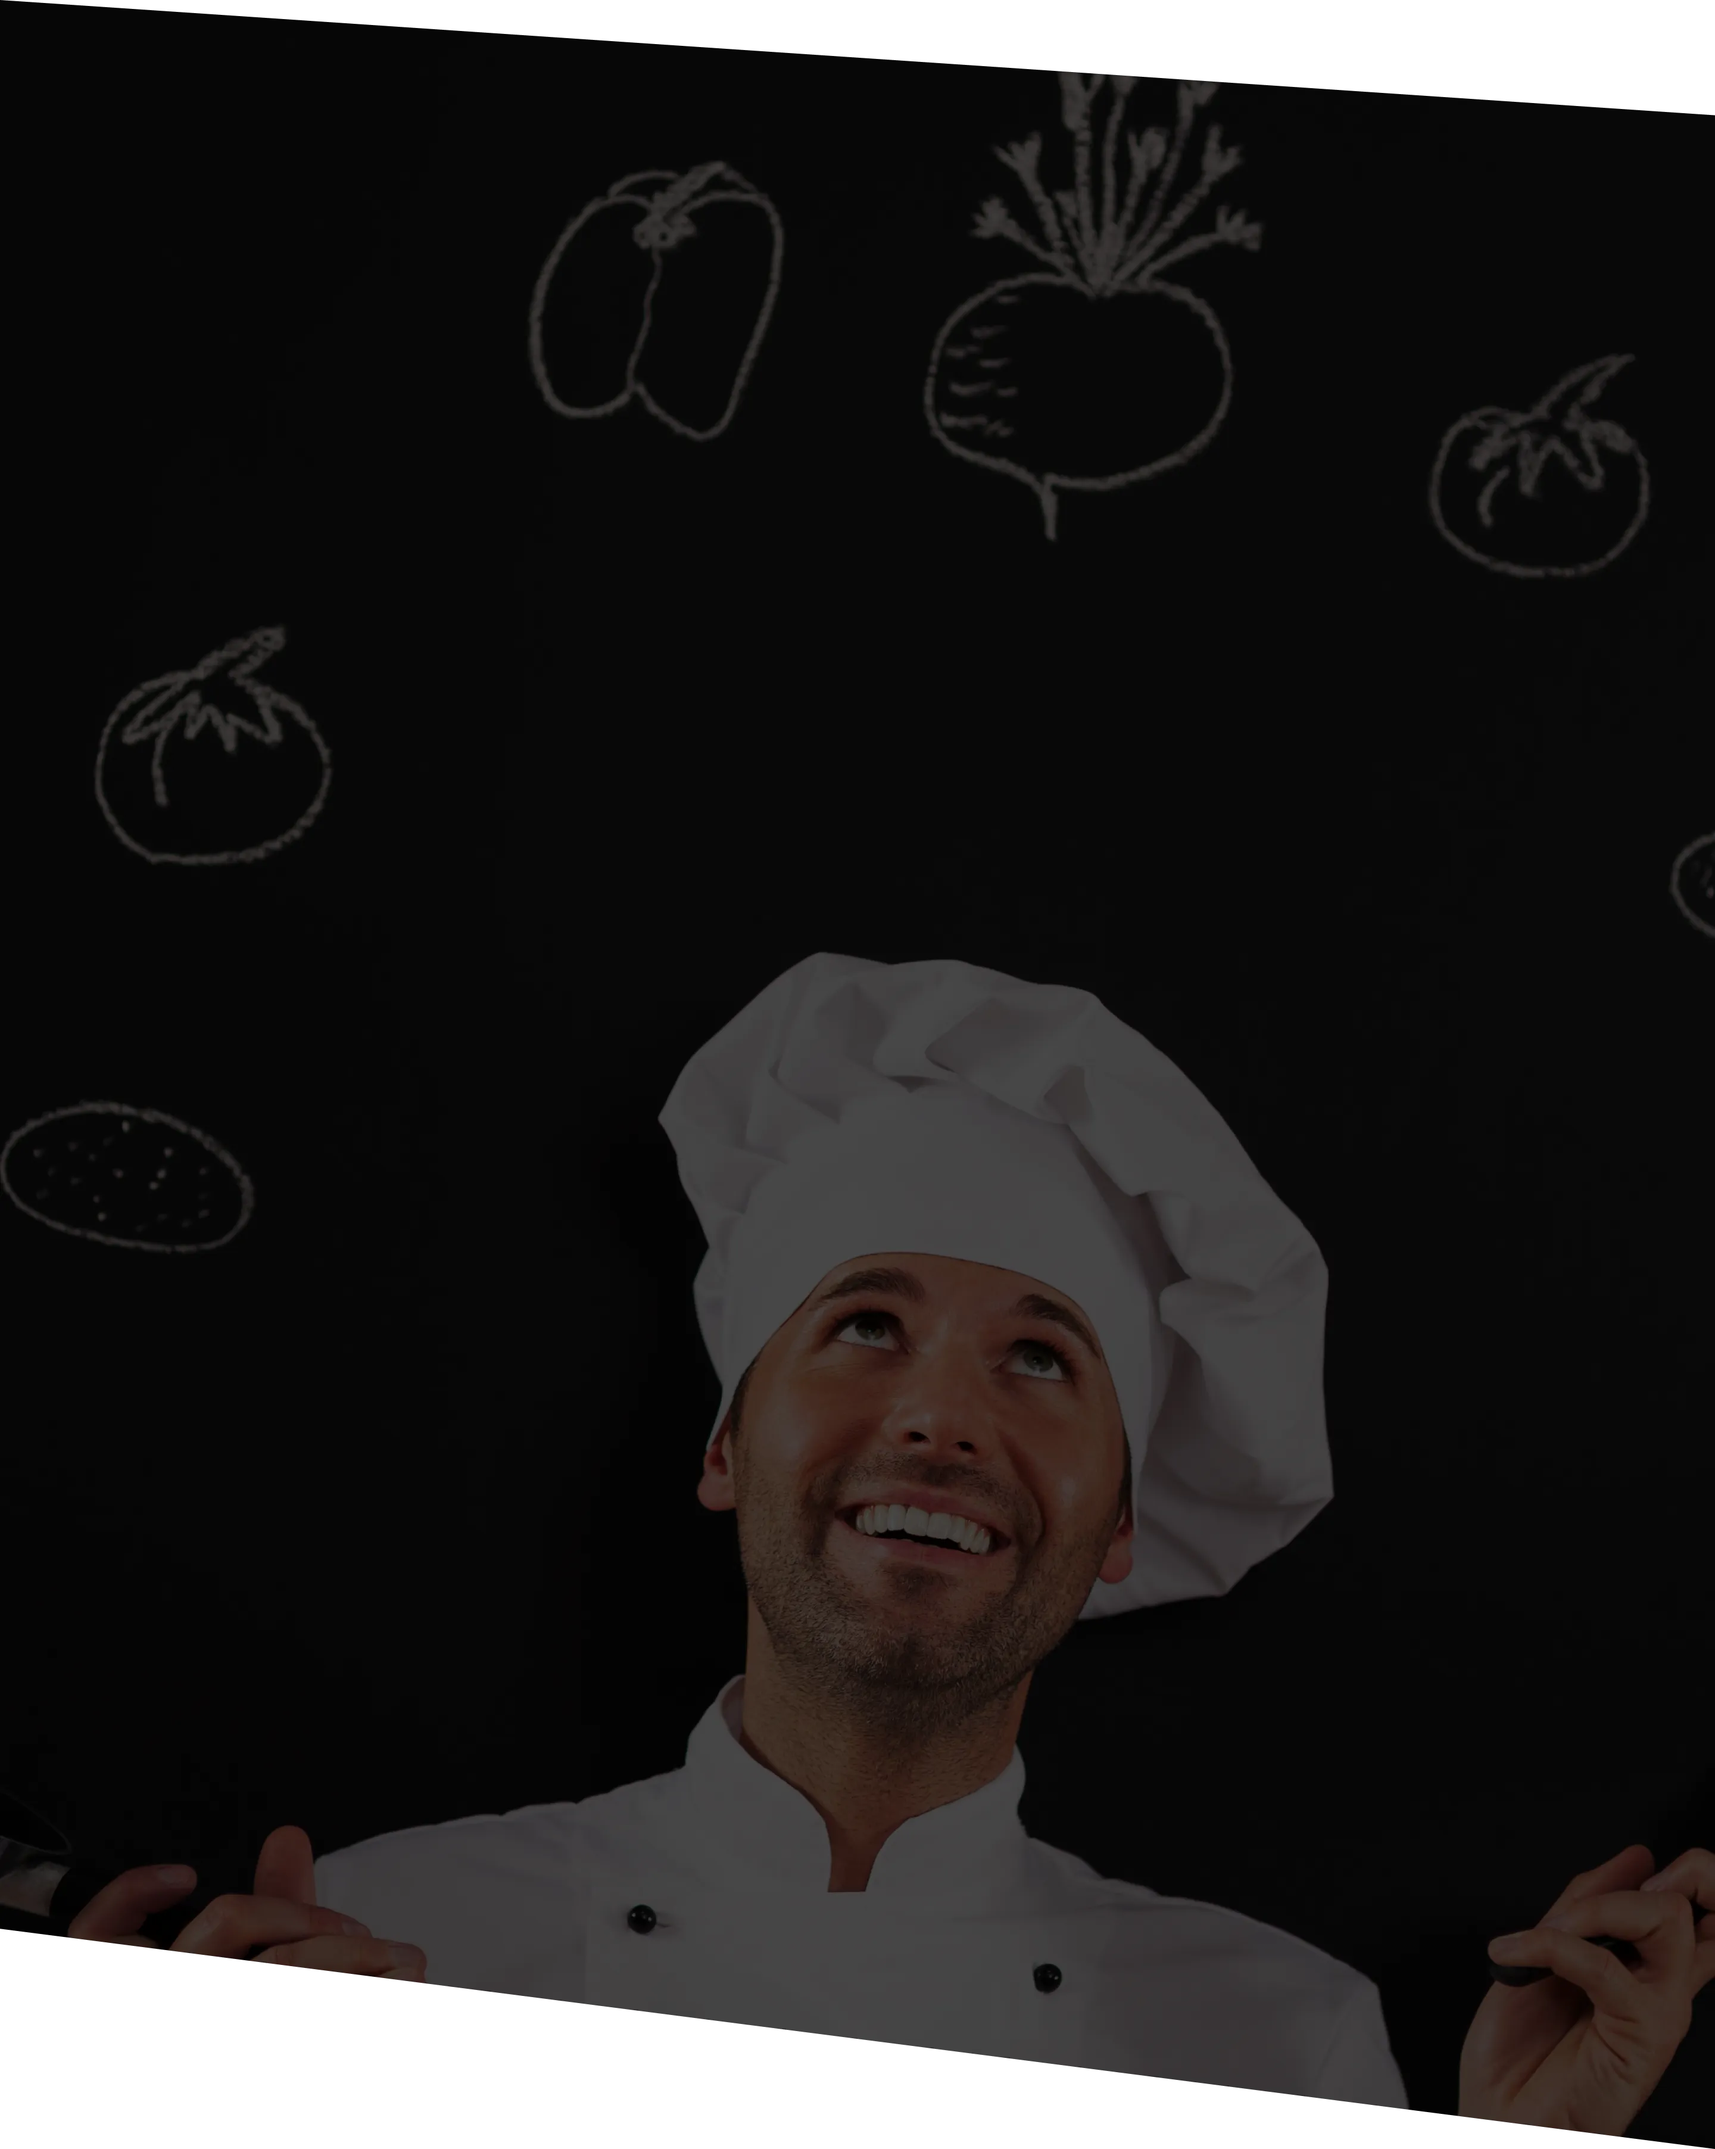
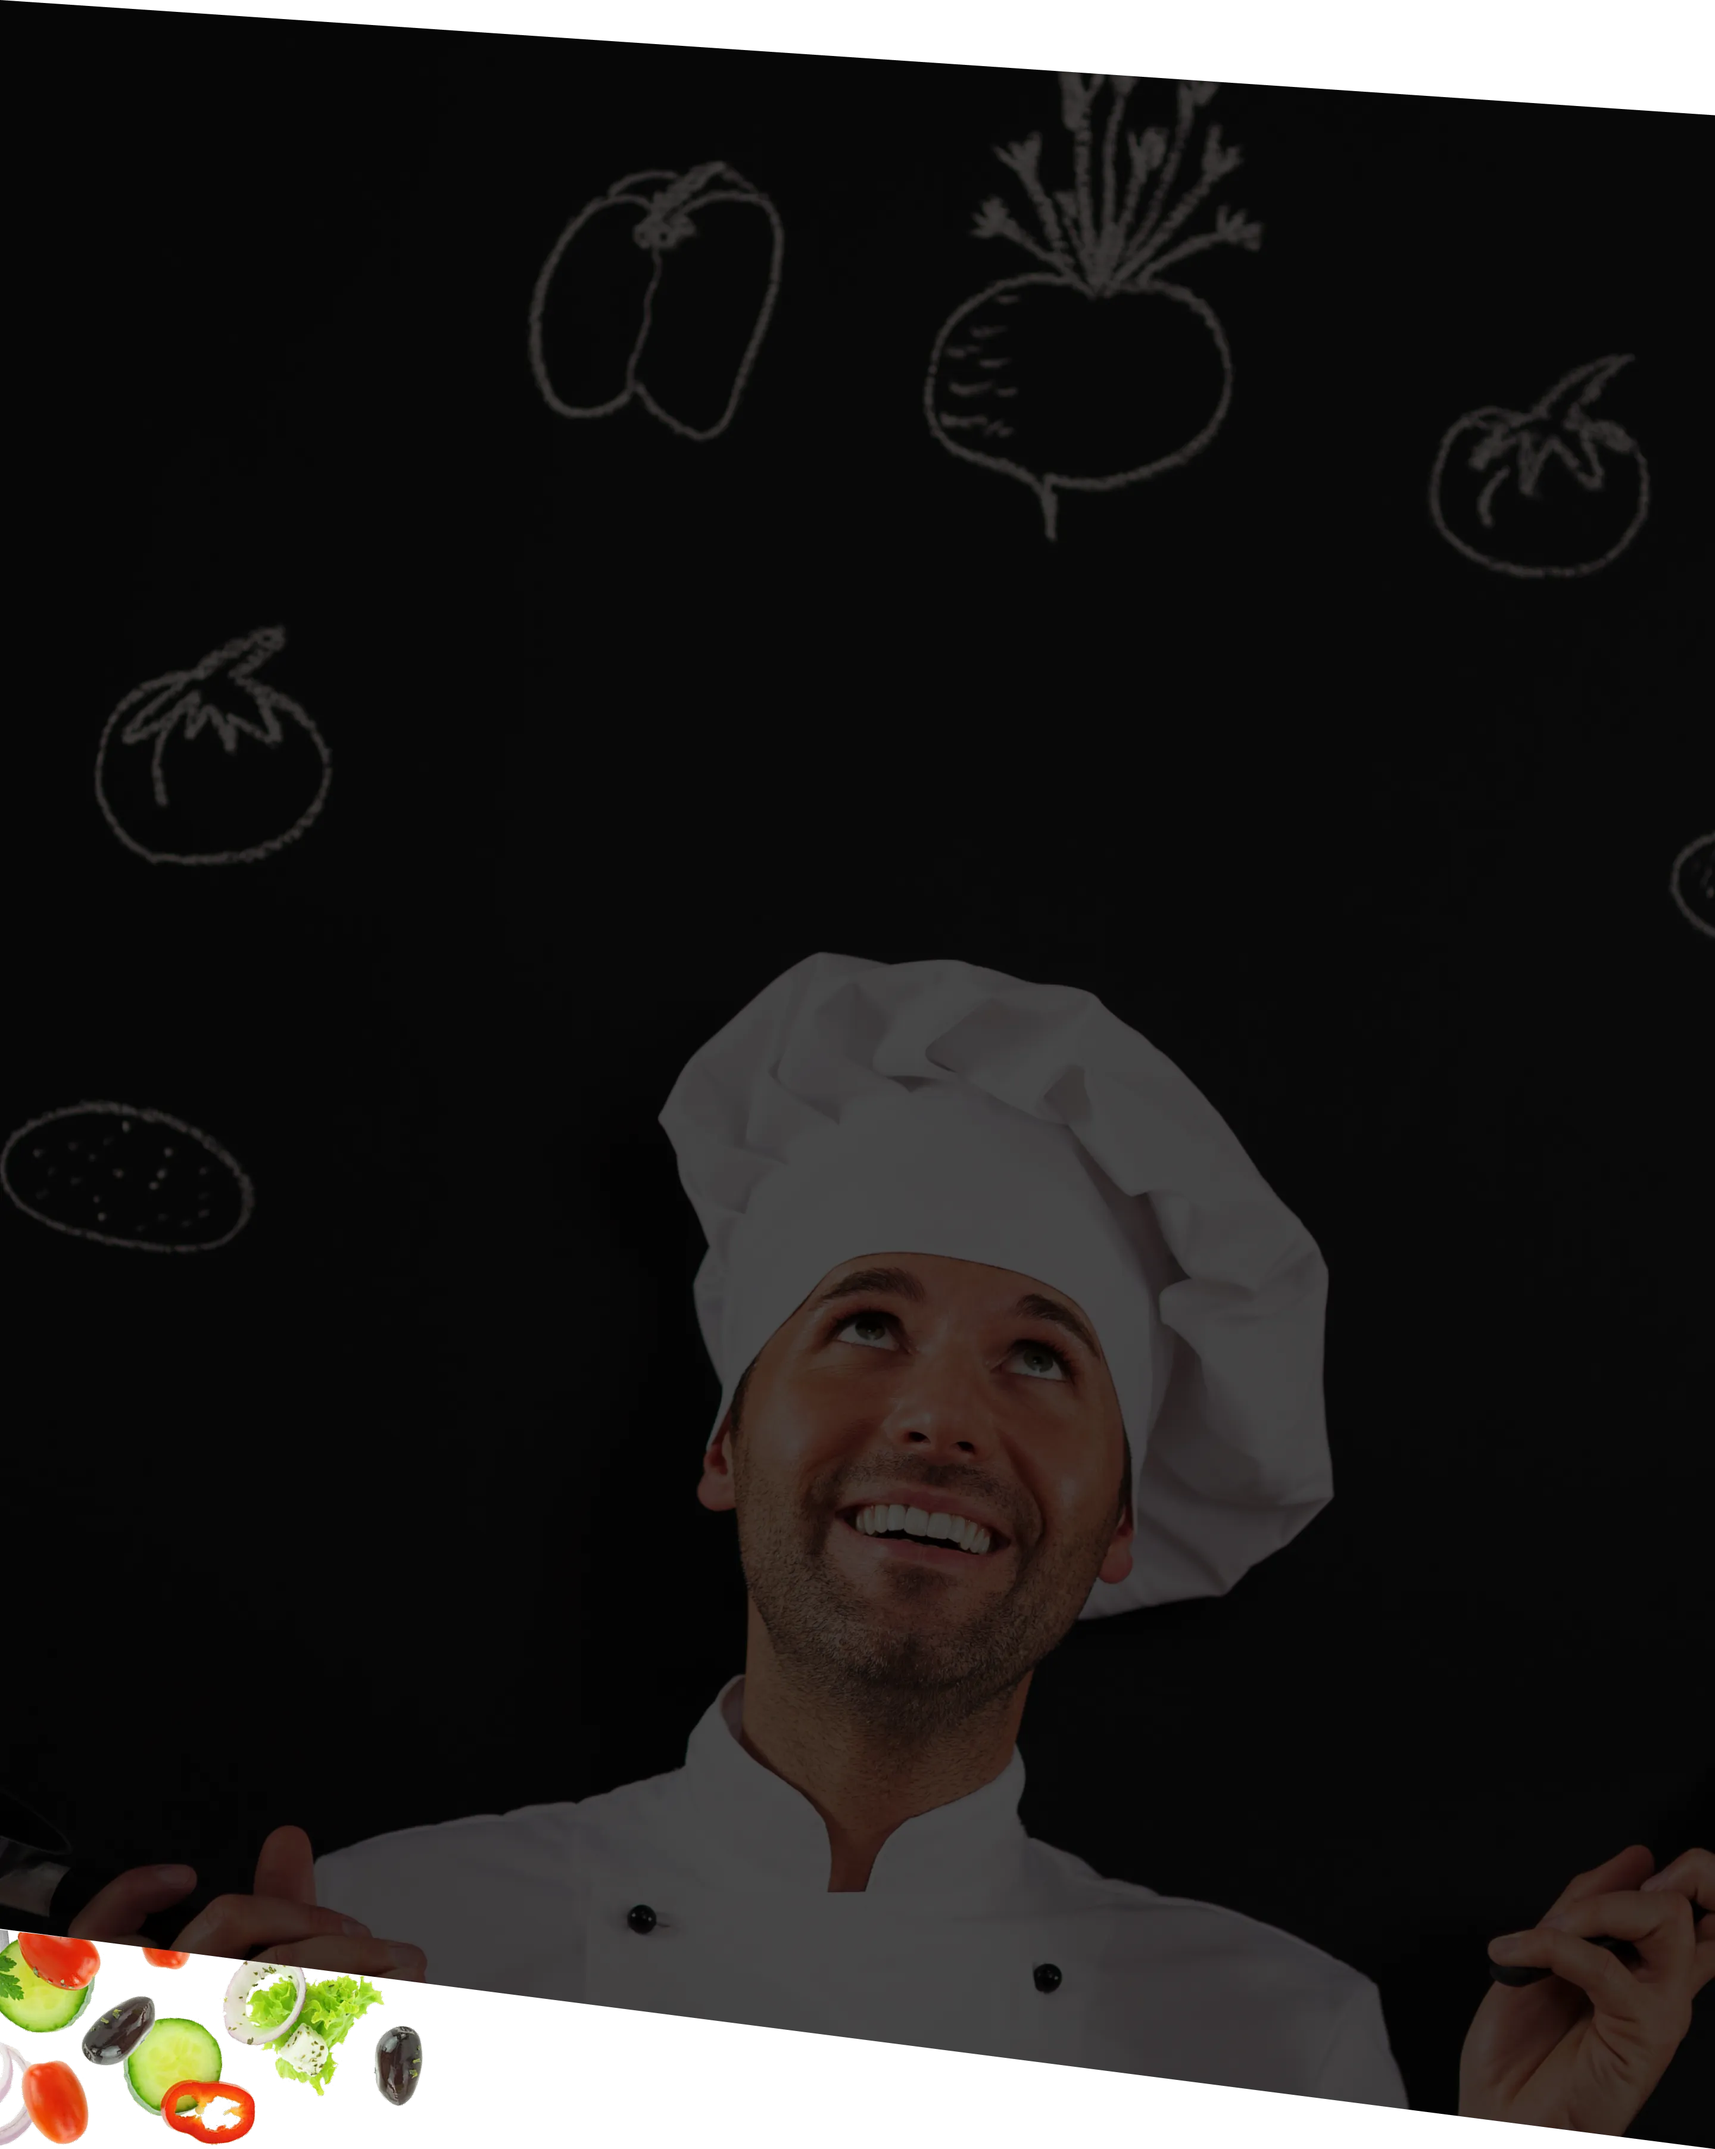
fix: competition categories bg corrected

Changed region(s): [[0.0, 0.9002, 0.25, 1.0]]

diff --git a/assets/scss/organisms/_competition-categories.scss b/assets/scss/organisms/_competition-categories.scss
@@ -251,17 +251,15 @@
 
   &__veg {
     position: absolute;
-    bottom: 44px;
-    left: 0;
-    width: 350px;
     height: auto;
     z-index: 2;
     pointer-events: none;
+    display: none;
   }
 
   // Responsive Styles
   @include mobile-tablet {
-    padding: 120px 0 100px;
+    padding: 120px 0 25%;
 
     &__heading {
       font-size: 32px;
@@ -272,8 +270,14 @@
     }
 
     &__veg {
+      display: block;
       width: 250px;
-      bottom: -10px;
+      bottom: 2.2%;
+      left: -4%;
+    }
+
+    &__cta {
+      margin-top: 40px;
     }
 
     &__button {
@@ -282,7 +286,7 @@
   }
 
   @include mobile {
-    padding: 100px 0 90px;
+    padding: 100px 0 55%;
 
     &__heading {
       font-size: 28px;
@@ -307,16 +311,14 @@
       font-size: 18px;
     }
 
-    &__cta {
-      margin-top: 40px;
-    }
-
     &__button {
-      width: 60%;
+      width: 80%;
     }
     
     &__veg {
       width: 150px;
+      bottom: 3.3%;
+      left: -5%;
     }
   }
 }

diff --git a/organisms/competition-categories.html b/organisms/competition-categories.html
@@ -18,7 +18,7 @@
 <body>
   <!-- body content start -->
   <section class="pre-competition" style="background-image: url('../assets/images/competition-bg.webp');">
-    <div class="container">
+    <div class="content-wrapper">
       <h2 class="pre-competition__heading text-center">COMPETITION CATEGORIES</h2>
 
       <div class="row pre-competition__grid">

diff --git a/organisms/culinary-arena.html b/organisms/culinary-arena.html
@@ -18,7 +18,7 @@
 <body>
   <!-- body content start -->
   <section class="pre-arena">
-    <div class="container">
+    <div class="content-wrapper">
       <div class="row align-items-center">
         <!-- Left Column -->
         <div class="col-lg-6">
